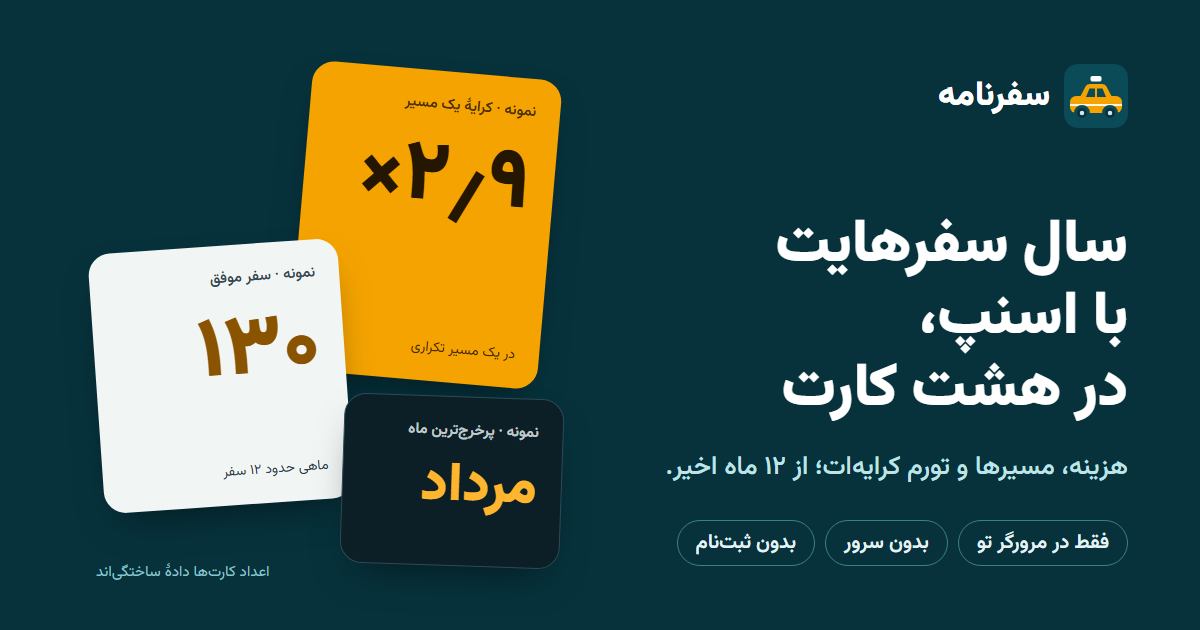
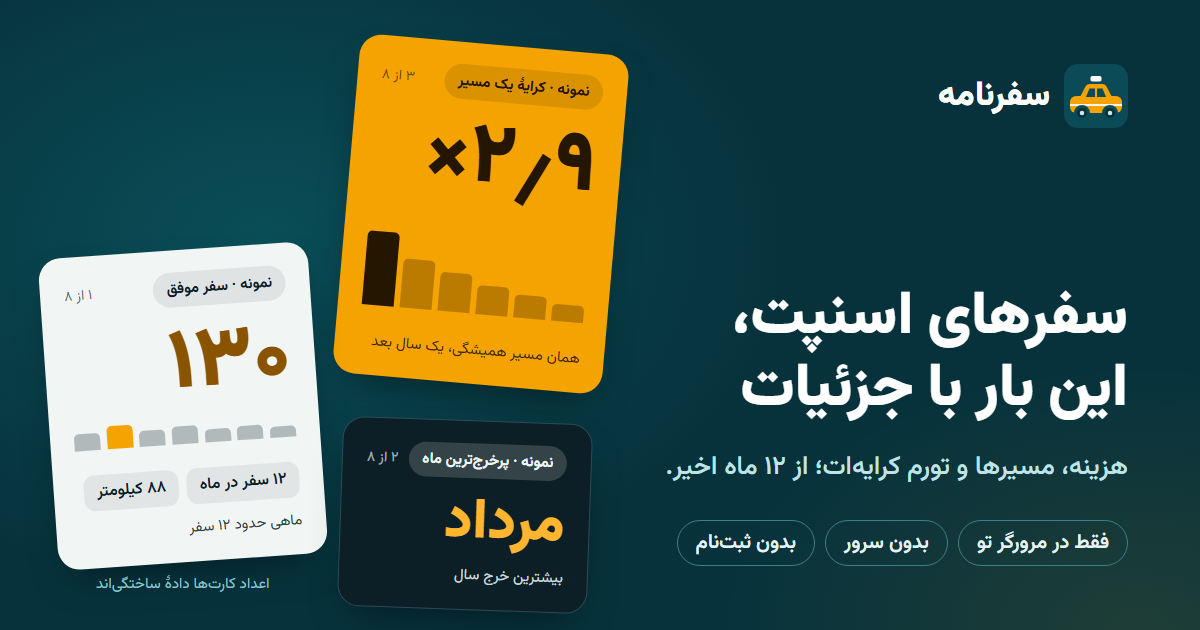
Refresh landing cards, branding images and headline

Changed region(s): [[0.0308, 0.0302, 0.5242, 0.9349], [0.6167, 0.3317, 0.9558, 0.6635], [0.37, 0.9048, 0.4625, 0.9349]]

diff --git a/index.html b/index.html
@@ -32,7 +32,7 @@
 
     <header class="hero">
       <div class="hero-copy">
-        <h1>سال سفرهایت با اسنپ، در هشت کارت</h1>
+        <h1>سفرهای اسنپت، این بار با جزئیات</h1>
         <p class="dek">۱۲ ماه آخر سفرهایت را میگیریم و خلاصهاش میکنیم: چند بار سوار شدی، چقدر خرج کردی، کدام مسیر را بیشتر رفتی و کرایهاش چقدر بالا رفته. همهچیز توی مرورگر خودت میماند.</p>
         <div class="cta-row">
           <button class="btn primary" id="try-demo">دیدن گزارش نمونه</button>
@@ -41,9 +41,25 @@
         <p class="fine">مستقل از اسنپ · بدون سرور · بدون ثبتنام · <a href="#extension">افزونهٔ کروم هم داریم</a></p>
       </div>
       <div class="hero-cards" aria-hidden="true">
-        <div class="sample s-back"><span class="sk">نمونه · کرایهٔ یک مسیر</span><span class="sv">×۲٫۹</span></div>
-        <div class="sample s-mid"><span class="sk">نمونه · پرخرجترین ماه</span><span class="sv">مرداد</span></div>
-        <div class="sample s-front"><span class="sk">نمونه · سفر موفق</span><span class="sv">۱۳۰</span><span class="ss">ماهی حدود ۱۲ سفر</span></div>
+        <div class="sample s-back">
+          <span class="top"><span class="sk">نمونه · کرایهٔ یک مسیر</span><span class="idx">۳ از ۸</span></span>
+          <span class="sv">×۲٫۹</span>
+          <span class="viz"><i style="height:22%"></i><i style="height:30%"></i><i style="height:38%"></i><i style="height:52%"></i><i style="height:66%"></i><i class="hi" style="height:100%"></i></span>
+          <span class="ss">همان مسیر همیشگی، یک سال بعد</span>
+        </div>
+        <div class="sample s-mid">
+          <span class="top"><span class="sk">نمونه · پرخرجترین ماه</span><span class="idx">۲ از ۸</span></span>
+          <span class="sv">مرداد</span>
+          <span class="viz"><i style="height:40%"></i><i style="height:55%"></i><i style="height:48%"></i><i style="height:70%"></i><i class="hi" style="height:100%"></i><i style="height:62%"></i></span>
+          <span class="ss">بیشترین خرج سال توی همین ماه بود</span>
+        </div>
+        <div class="sample s-front">
+          <span class="top"><span class="sk">نمونه · سفر موفق</span><span class="idx">۱ از ۸</span></span>
+          <span class="sv">۱۳۰</span>
+          <span class="viz"><i style="height:48%"></i><i style="height:62%"></i><i style="height:56%"></i><i style="height:80%"></i><i style="height:70%"></i><i class="hi" style="height:100%"></i><i style="height:76%"></i></span>
+          <span class="chips2"><span><b>۱۲</b> سفر در ماه</span><span><b>۸۸</b> کیلومتر</span></span>
+          <span class="ss">ماهی حدود ۱۲ سفر</span>
+        </div>
       </div>
     </header>
 
@@ -61,7 +77,7 @@
         <a class="btn primary" id="ext-dl" href="#" hidden>دانلود افزونه</a>
       </div>
       <div class="ext-pop" aria-hidden="true">
-        <div class="ep-brand"><i></i><div><b>سفرنامه</b><span>گزارش ۱۲ ماه اخیر سفرهای اسنپ</span></div></div>
+        <div class="ep-brand"><svg class="ep-logo" viewBox="0 0 128 128" width="40" height="40" aria-hidden="true"><rect width="128" height="128" rx="28" fill="#0b4a57"/><rect x="53" y="24" width="22" height="11" rx="3.5" fill="#fff"/><path d="M30 70 L43 45 Q45 40 51 40 H77 Q83 40 85 45 L98 70 Z" fill="#f4a300"/><rect x="12" y="64" width="104" height="34" rx="12" fill="#f4a300"/><path d="M44 66 L51 49 H62 V66 Z M66 66 V49 H77 L84 66 Z" fill="#0b4a57"/><rect x="12" y="80" width="104" height="4" fill="#fff" opacity=".9"/><circle cx="36" cy="98" r="13" fill="#07323c" stroke="#0b4a57" stroke-width="6"/><circle cx="92" cy="98" r="13" fill="#07323c" stroke="#0b4a57" stroke-width="6"/><circle cx="36" cy="98" r="4.5" fill="#cfe7ea"/><circle cx="92" cy="98" r="4.5" fill="#cfe7ea"/></svg><div><b>سفرنامه</b><span>گزارش ۱۲ ماه اخیر سفرهای اسنپ</span></div></div>
         <div class="ep-status"><i></i>در صفحهٔ اسنپ هستی؛ آماده است</div>
         <div class="ep-btn">ساخت گزارش</div>
       </div>

diff --git a/branding/og.html b/branding/og.html
@@ -6,22 +6,23 @@ body{width:1200px;height:630px}
 h1{font-size:60px;margin-top:auto}
 .sub{font-size:26px;margin-top:20px;line-height:1.7}
 .chips{margin-top:30px}.chips span{font-size:20px;padding:6px 18px}
-.url{margin-top:26px;font-size:18px;text-align:right}
-.c1{width:250px;height:310px;left:300px;top:70px;transform:rotate(5deg)}
-.c1 .v{font-size:84px;margin-top:22px}
-.c2{width:250px;height:260px;left:96px;top:246px;transform:rotate(-4deg)}
-.c2 .v{font-size:84px;margin-top:22px}
-.c3{width:220px;height:170px;left:342px;top:396px;transform:rotate(2deg)}
-.c3 .v{font-size:54px;margin-top:18px}
-.tag{position:absolute;left:96px;bottom:46px;font-size:15px;color:#8fc3cb}
+.card{padding:22px 24px;gap:12px}
+.card .k{font-size:15px}.card .idx{font-size:14px}
+.card .v{font-size:84px;margin-top:6px}
+.card .n{font-size:15px}
+.c1{width:270px;height:340px;left:346px;top:44px;transform:rotate(5deg)}
+.c2{width:270px;height:312px;left:48px;top:250px;transform:rotate(-4deg)}
+.c3{width:250px;height:190px;left:340px;top:420px;transform:rotate(2deg)}
+.c3 .v{font-size:56px}
+.tag{position:absolute;left:96px;bottom:34px;font-size:15px;color:#8fc3cb}
 </style>
 <div class="copy">
   <div class="brand"><img src="icon.svg" width="64" height="64" alt="">سفرنامه</div>
-  <h1>سال سفرهایت با اسنپ،<br>در هشت کارت</h1>
+  <h1>سفرهای اسنپت،<br>این بار با جزئیات</h1>
   <p class="sub">هزینه، مسیرها و تورم کرایهات؛ از ۱۲ ماه اخیر.</p>
   <div class="chips"><span>فقط در مرورگر تو</span><span>بدون سرور</span><span>بدون ثبتنام</span></div>
 </div>
-<div class="card amber c1"><span class="k">نمونه · کرایهٔ یک مسیر</span><span class="v">×۲٫۹</span><span class="n">در یک مسیر تکراری</span></div>
-<div class="card paper c2"><span class="k">نمونه · سفر موفق</span><span class="v">۱۳۰</span><span class="n">ماهی حدود ۱۲ سفر</span></div>
-<div class="card ink c3"><span class="k">نمونه · پرخرجترین ماه</span><span class="v">مرداد</span></div>
+<div class="card amber c1"><span class="top"><span class="k">نمونه · کرایهٔ یک مسیر</span><span class="idx">۳ از ۸</span></span><span class="v">×۲٫۹</span><span class="viz" style="height:74px"><i style="height:22%"></i><i style="height:30%"></i><i style="height:38%"></i><i style="height:52%"></i><i style="height:66%"></i><i class="hi" style="height:100%"></i></span><span class="n">همان مسیر همیشگی، یک سال بعد</span></div>
+<div class="card paper c2"><span class="top"><span class="k">نمونه · سفر موفق</span><span class="idx">۱ از ۸</span></span><span class="v">۱۳۰</span><span class="viz" style="height:64px"><i style="height:48%"></i><i style="height:62%"></i><i style="height:56%"></i><i style="height:80%"></i><i style="height:70%"></i><i class="hi" style="height:100%"></i><i style="height:76%"></i></span><span class="row"><span>۱۲ سفر در ماه</span><span>۸۸ کیلومتر</span></span><span class="n">ماهی حدود ۱۲ سفر</span></div>
+<div class="card ink c3"><span class="top"><span class="k">نمونه · پرخرجترین ماه</span><span class="idx">۲ از ۸</span></span><span class="v">مرداد</span><span class="n">بیشترین خرج سال</span></div>
 <div class="tag">اعداد کارتها دادهٔ ساختگیاند</div>

diff --git a/branding/store-marquee.html b/branding/store-marquee.html
@@ -6,13 +6,15 @@ body{width:1400px;height:560px}
 h1{font-size:62px;margin-top:auto}
 .sub{font-size:24px;margin-top:18px;line-height:1.7}
 .chips{margin-top:26px}.chips span{font-size:19px;padding:5px 16px}
-.card{width:230px;height:290px}
-.card .v{font-size:78px;margin-top:20px}
-.c1{left:380px;top:60px;transform:rotate(5deg)}
-.c2{left:96px;top:190px;transform:rotate(-4deg)}
-.c3{left:440px;top:330px;width:230px;height:150px;transform:rotate(2deg)}
-.c3 .v{font-size:46px}
-.tag{position:absolute;left:96px;bottom:34px;font-size:14px;color:#8fc3cb}
+.card{padding:20px 22px;gap:10px}
+.card .k{font-size:14px}.card .idx{font-size:13px}
+.card .v{font-size:72px;margin-top:4px}
+.card .n{font-size:14px}
+.c1{width:250px;height:310px;left:410px;top:44px;transform:rotate(5deg)}
+.c2{width:250px;height:290px;left:110px;top:176px;transform:rotate(-4deg)}
+.c3{width:230px;height:170px;left:460px;top:350px;transform:rotate(2deg)}
+.c3 .v{font-size:48px}
+.tag{position:absolute;left:96px;bottom:28px;font-size:14px;color:#8fc3cb}
 </style>
 <div class="copy">
   <div class="brand"><img src="icon.svg" width="56" height="56" alt="">سفرنامه</div>
@@ -20,7 +22,7 @@ h1{font-size:62px;margin-top:auto}
   <p class="sub">وارد اسنپ شو، روی آیکن بزن، گزارش ۱۲ ماه اخیرت آماده است.</p>
   <div class="chips"><span>فقط به app.snapp.taxi دسترسی دارد</span><span>چیزی ذخیره نمیشود</span></div>
 </div>
-<div class="card amber c1"><span class="k">نمونه · کرایهٔ یک مسیر</span><span class="v">×۲٫۹</span><span class="n">در یک مسیر تکراری</span></div>
-<div class="card paper c2"><span class="k">نمونه · سفر موفق</span><span class="v">۱۳۰</span><span class="n">ماهی حدود ۱۲ سفر</span></div>
-<div class="card ink c3"><span class="k">نمونه · پرخرجترین ماه</span><span class="v">مرداد</span></div>
+<div class="card amber c1"><span class="top"><span class="k">نمونه · کرایهٔ یک مسیر</span><span class="idx">۳ از ۸</span></span><span class="v">×۲٫۹</span><span class="viz" style="height:64px"><i style="height:22%"></i><i style="height:30%"></i><i style="height:38%"></i><i style="height:52%"></i><i style="height:66%"></i><i class="hi" style="height:100%"></i></span><span class="n">همان مسیر همیشگی</span></div>
+<div class="card paper c2"><span class="top"><span class="k">نمونه · سفر موفق</span><span class="idx">۱ از ۸</span></span><span class="v">۱۳۰</span><span class="viz" style="height:56px"><i style="height:48%"></i><i style="height:62%"></i><i style="height:56%"></i><i style="height:80%"></i><i style="height:70%"></i><i class="hi" style="height:100%"></i><i style="height:76%"></i></span><span class="n">ماهی حدود ۱۲ سفر</span></div>
+<div class="card ink c3"><span class="top"><span class="k">نمونه · پرخرجترین ماه</span><span class="idx">۲ از ۸</span></span><span class="v">مرداد</span><span class="n">بیشترین خرج سال</span></div>
 <div class="tag">اعداد کارتها دادهٔ ساختگیاند</div>

diff --git a/assets/style.css b/assets/style.css
@@ -647,3 +647,50 @@ details.code>summary,.faq summary{padding-inline-end:4px}
 .note.slim{padding:5px 14px; font-size:13px; line-height:1.6; border-radius:999px; width:fit-content; max-width:100%;
   margin-inline:auto; color:var(--ink-2)}
 .svc-p{font-size:12.5px; color:var(--muted); line-height:1.7; border-top:1px dashed var(--hair); padding-top:10px}
+
+/* hero sample cards: same anatomy as the report reel (pill + index, big number, bars, caption),
+   stacked so each card's pill peeks out above the one in front */
+.hero-cards{min-height:0; aspect-ratio:1/1.12; margin:0; overflow:visible; padding:0}
+.sample{width:74%; aspect-ratio:auto; height:78%; padding:clamp(14px,2.6vw,22px); gap:clamp(6px,1.4vw,10px); border-radius:26px;
+  box-shadow:var(--shadow); border:1px solid transparent}
+.s-back{inset-inline-start:0; top:0; transform:rotate(-3deg)}
+.s-mid{inset-inline-start:11%; top:11%; transform:rotate(2deg)}
+.s-front{inset-inline-start:22%; top:22%; transform:none}
+.sample .top{display:flex; justify-content:space-between; align-items:center; gap:8px}
+.sample .sk{display:inline-flex; align-items:center; font-size:clamp(11.5px,1.5vw,13.5px); font-weight:700; opacity:1;
+  padding:5px 12px; border-radius:999px; background:rgba(255,255,255,.16); white-space:nowrap}
+.s-back .sk{background:rgba(36,22,0,.12)}
+.sample .idx{font-size:12px; opacity:.7; white-space:nowrap}
+.s-back .sv,.s-mid .sv{visibility:visible}
+.sample .sv{font-size:clamp(46px,8vw,80px); font-weight:900; line-height:1; margin-top:4px}
+.s-mid .sv{font-size:clamp(40px,7vw,68px)}
+.sample .viz{display:flex; align-items:flex-end; gap:5px; height:clamp(46px,8vw,76px); margin-top:auto}
+.sample .viz i{flex:1; border-radius:5px 5px 0 0; background:currentColor; opacity:.3; min-width:4px}
+.sample .viz i.hi{opacity:1; background:var(--amber)}
+.s-back .viz i.hi{background:#241600}
+.sample .chips2{display:flex; flex-wrap:wrap; gap:6px; margin:0}
+.sample .chips2 span{font-size:clamp(11px,1.4vw,12.5px); padding:5px 10px; border-radius:10px; background:rgba(255,255,255,.14)}
+.sample .chips2 b{font-size:1.1em}
+.sample .ss{margin-top:0; font-size:clamp(12.5px,1.6vw,14.5px); opacity:.9}
+@media(max-width:820px){
+  .hero-cards{order:-1; margin:4px 8px 6px; aspect-ratio:1/1.05}
+  .sample{width:76%; height:80%; padding:16px; border-radius:22px}
+  .s-mid{inset-inline-start:9%} .s-front{inset-inline-start:18%; top:20%}
+  .s-mid{top:10%}
+}
+.s-mid{background:var(--sl-ink); color:#eaf3ec; border-color:var(--sl-ink-bd)}
+.hero-cards{aspect-ratio:1/1.2}
+.sample{height:70%}
+.s-mid{top:15%} .s-front{top:30%}
+@media(max-width:820px){
+  .hero-cards{aspect-ratio:1/1.2}
+  .sample{height:70%}
+  .s-mid{top:15%} .s-front{top:30%}
+}
+.s-back .sk,.s-mid .sk{visibility:visible}
+/* only the pill of the two back cards shows; the rest is covered, so hide it to avoid stray glyph edges */
+.s-back .sv,.s-mid .sv,.s-back .viz,.s-mid .viz,.s-back .ss,.s-mid .ss{visibility:hidden}
+
+/* extension mock: the real taxi icon, not the old ring */
+.ep-brand>i{display:none}
+.ep-logo{flex:none; width:40px; height:40px; border-radius:10px}

diff --git a/branding/store-tile.html b/branding/store-tile.html
@@ -4,14 +4,16 @@ body{width:880px;height:560px}.t{position:absolute;inset:0 auto auto 0;width:440
 .brand{position:absolute;right:28px;top:26px;font-size:22px}
 h1{position:absolute;right:28px;bottom:70px;font-size:34px;width:250px}
 .sub{position:absolute;right:28px;bottom:28px;font-size:15px}
-.c1{width:118px;height:150px;left:34px;top:34px;transform:rotate(6deg);padding:12px 14px;border-radius:14px}
-.c1 .k{font-size:10px}.c1 .v{font-size:40px;margin-top:10px}.c1 .n{font-size:9px}
-.c2{width:118px;height:150px;left:14px;top:112px;transform:rotate(-5deg);padding:12px 14px;border-radius:14px}
-.c2 .k{font-size:10px}.c2 .v{font-size:40px;margin-top:10px}.c2 .n{font-size:9px}
+.card{padding:10px 12px;border-radius:14px;gap:5px}
+.card .k{font-size:9px}.card .idx{font-size:8px}
+.card .v{font-size:34px;margin-top:2px}.card .n{font-size:8.5px}
+.card .viz{margin-top:auto}
+.c1{width:122px;height:150px;left:30px;top:26px;transform:rotate(6deg)}
+.c2{width:122px;height:150px;left:12px;top:114px;transform:rotate(-5deg)}
 </style>
 <div class="t"><div class="brand"><img src="icon.svg" width="36" height="36" alt="">سفرنامه</div>
-<h1>سال سفرهایت، در هشت کارت</h1>
+<h1>سفرهای اسنپت، این بار با جزئیات</h1>
 <p class="sub">افزونهٔ کروم · همهچیز در مرورگر خودت</p>
-<div class="card amber c1"><span class="k">نمونه · کرایهٔ یک مسیر</span><span class="v">×۲٫۹</span></div>
-<div class="card paper c2"><span class="k">نمونه · سفر موفق</span><span class="v">۱۳۰</span><span class="n">دادهٔ ساختگی</span></div>
+<div class="card amber c1"><span class="top"><span class="k">نمونه · کرایهٔ مسیر</span><span class="idx">۳ از ۸</span></span><span class="v">×۲٫۹</span><span class="viz" style="height:28px"><i style="height:22%"></i><i style="height:30%"></i><i style="height:38%"></i><i style="height:52%"></i><i style="height:66%"></i><i class="hi" style="height:100%"></i></span><span class="n">یک سال بعد</span></div>
+<div class="card paper c2"><span class="top"><span class="k">نمونه · سفر موفق</span><span class="idx">۱ از ۸</span></span><span class="v">۱۳۰</span><span class="viz" style="height:28px"><i style="height:48%"></i><i style="height:62%"></i><i style="height:56%"></i><i style="height:80%"></i><i style="height:70%"></i><i class="hi" style="height:100%"></i><i style="height:76%"></i></span><span class="n">دادهٔ ساختگی</span></div>
 </div>

diff --git a/branding/share.css b/branding/share.css
@@ -19,3 +19,20 @@ h1{font-weight:900;line-height:1.2;letter-spacing:-.015em;text-wrap:balance}
 .ink{background:#0c1f26;color:#eef7f8;border:1.5px solid #2d4b56}
 .ink .v{color:#ffb52e}
 .url{font-family:M,monospace;direction:ltr;color:#8fc3cb;font-weight:600}
+
+/* cards share the anatomy of the report cards: pill + index, big value, bars, caption */
+body{background:radial-gradient(70% 90% at 22% 38%,rgba(14,124,134,.38),transparent 62%),radial-gradient(50% 60% at 95% 100%,rgba(244,163,0,.10),transparent 70%),#07323c}
+.card .top{display:flex;justify-content:space-between;align-items:center;gap:10px}
+.card .k{display:inline-flex;align-items:center;padding:.4em .9em;border-radius:999px;background:rgba(255,255,255,.16);font-weight:700;opacity:1;white-space:nowrap}
+.amber .k{background:rgba(36,22,0,.12)}
+.paper .k{background:rgba(12,31,38,.08)}
+.card .idx{opacity:.65;white-space:nowrap}
+.card .viz{display:flex;align-items:flex-end;gap:.4em;margin-top:auto}
+.card .viz i{flex:1;border-radius:.3em .3em 0 0;background:currentColor;opacity:.28;min-width:3px}
+.card .viz i.hi{opacity:1;background:#f4a300}
+.amber .viz i.hi{background:#241600}
+.paper .viz i.hi{background:#f4a300}
+.card .viz+.n{margin-top:.9em}
+.card .row{display:flex;gap:.5em;flex-wrap:wrap;margin-top:.8em}
+.card .row span{padding:.35em .8em;border-radius:.7em;background:rgba(255,255,255,.14);font-weight:600}
+.paper .row span{background:rgba(12,31,38,.07)}

diff --git a/README.md b/README.md
@@ -4,7 +4,7 @@
 
 # سفرنامه
 
-**سال سفرهایت با اسنپ، در هشت کارت**
+**سفرهای اسنپت، این بار با جزئیات**
 
 تاریخچهٔ سفرهای اسنپات را به یک گزارش فارسی تبدیل میکند: چقدر خرج کردی، کجاها رفتی و کرایهٔ مسیرهای همیشگیات چقدر بالا رفته. همهچیز توی مرورگر خودت اجرا میشود، با افزونهٔ کروم یا یک سایت استاتیک.
 
